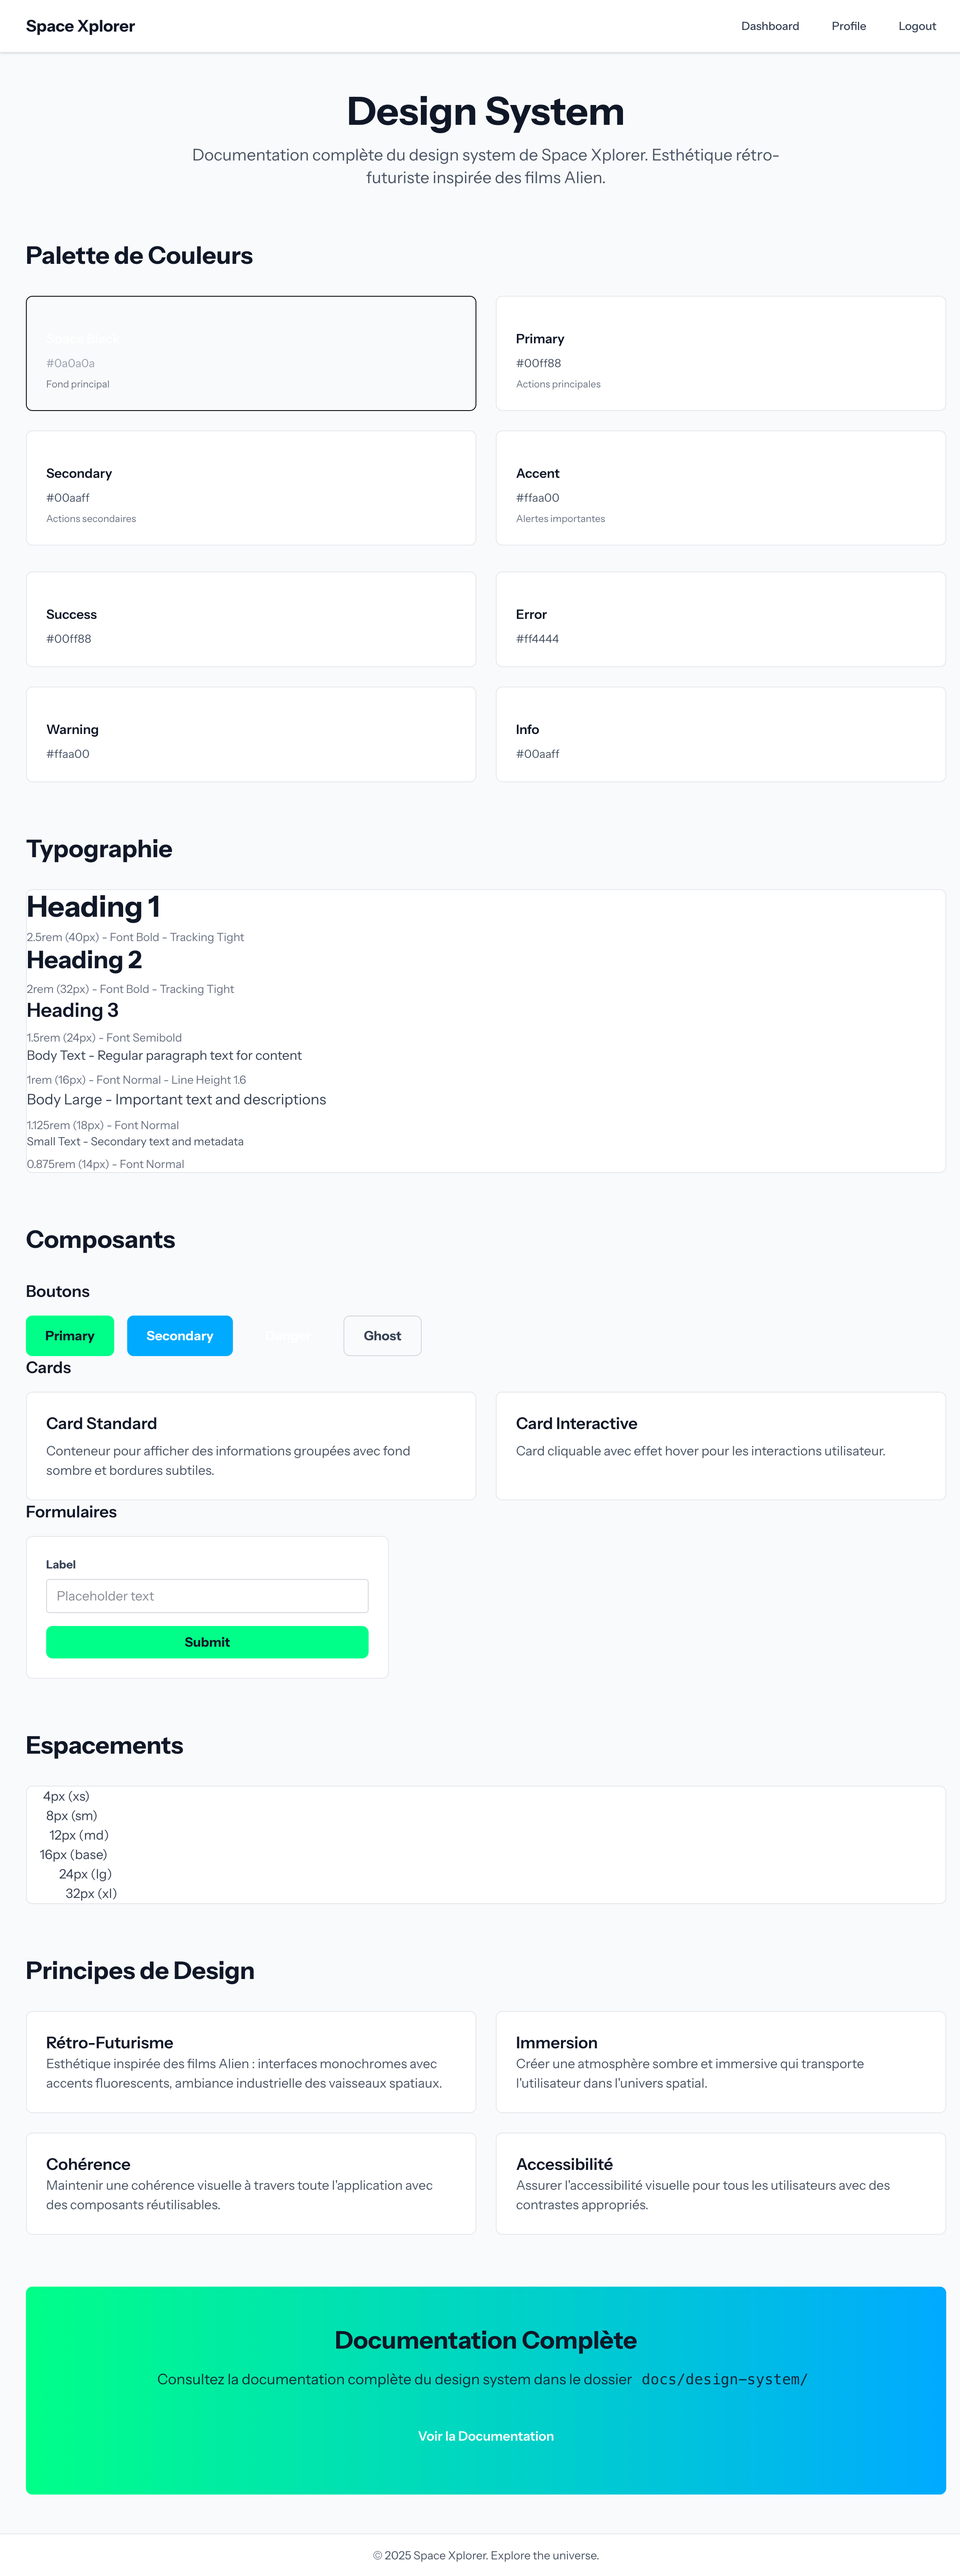
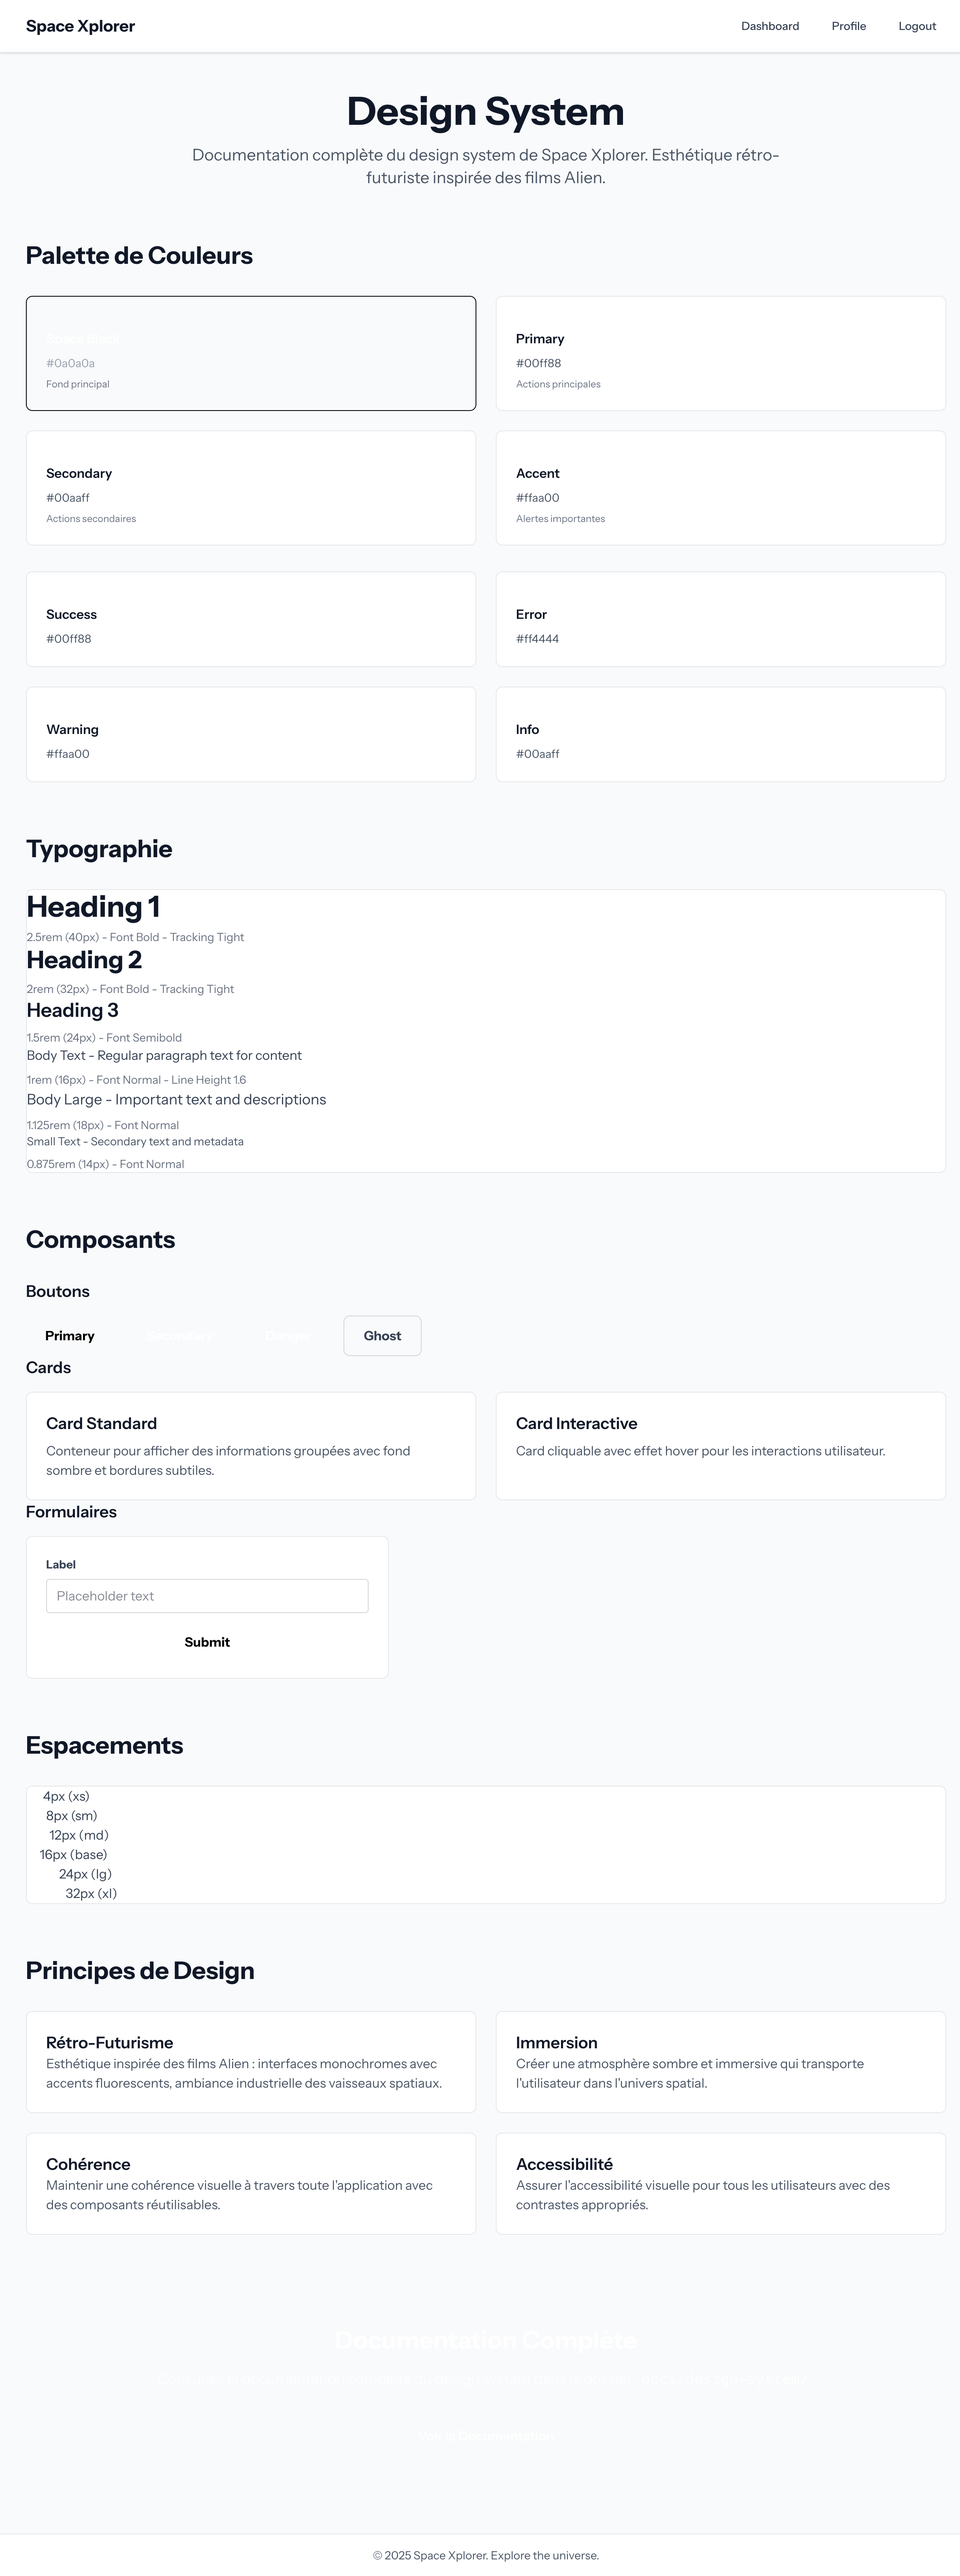
fix: Use Tailwind arbitrary values for design system colors
- Add design system colors to @theme in app.css
- Update design-system page to use bg-[#hex] syntax for colors
- Colors now display correctly with Tailwind arbitrary values
- Update screenshot

Changed region(s): [[0.0, 0.8722, 0.9992, 0.9657], [0.0312, 0.623, 0.4059, 0.6542], [0.0312, 0.4984, 0.2498, 0.5296]]

diff --git a/resources/css/app.css b/resources/css/app.css
@@ -8,4 +8,18 @@
 @theme {
     --font-sans: 'Instrument Sans', ui-sans-serif, system-ui, sans-serif, 'Apple Color Emoji', 'Segoe UI Emoji',
         'Segoe UI Symbol', 'Noto Color Emoji';
+    
+    /* Design System Colors - Space Xplorer */
+    --color-space-black: #0a0a0a;
+    --color-space-primary: #00ff88;
+    --color-space-primary-dark: #00cc6a;
+    --color-space-primary-light: #33ffaa;
+    --color-space-secondary: #00aaff;
+    --color-space-secondary-dark: #0088cc;
+    --color-space-secondary-light: #33bbff;
+    --color-space-accent: #ffaa00;
+    --color-space-accent-dark: #cc8800;
+    --color-surface-dark: #1a1a1a;
+    --color-surface-medium: #2a2a2a;
+    --color-border-dark: #333333;
 }

diff --git a/resources/views/design-system.blade.php b/resources/views/design-system.blade.php
@@ -22,7 +22,7 @@
         <div class="grid md:grid-cols-2 lg:grid-cols-4 gap-6 mb-8">
             <!-- Space Black -->
             <div class="bg-gray-900 dark:bg-gray-950 rounded-lg p-6 border border-gray-800">
-                <div class="h-24 rounded mb-4 bg-gray-950"></div>
+                <div class="h-24 rounded mb-4 bg-[#0a0a0a]"></div>
                 <h3 class="text-white font-semibold mb-2">Space Black</h3>
                 <p class="text-gray-400 text-sm">#0a0a0a</p>
                 <p class="text-gray-500 text-xs mt-2">Fond principal</p>
@@ -30,7 +30,7 @@
 
             <!-- Primary -->
             <div class="bg-white dark:bg-gray-800 rounded-lg p-6 border border-gray-200 dark:border-gray-700">
-                <div class="h-24 rounded mb-4" style="background-color: #00ff88;"></div>
+                <div class="h-24 rounded mb-4 bg-[#00ff88]"></div>
                 <h3 class="text-gray-900 dark:text-white font-semibold mb-2">Primary</h3>
                 <p class="text-gray-600 dark:text-gray-400 text-sm">#00ff88</p>
                 <p class="text-gray-500 dark:text-gray-500 text-xs mt-2">Actions principales</p>
@@ -38,7 +38,7 @@
 
             <!-- Secondary -->
             <div class="bg-white dark:bg-gray-800 rounded-lg p-6 border border-gray-200 dark:border-gray-700">
-                <div class="h-24 rounded mb-4" style="background-color: #00aaff;"></div>
+                <div class="h-24 rounded mb-4 bg-[#00aaff]"></div>
                 <h3 class="text-gray-900 dark:text-white font-semibold mb-2">Secondary</h3>
                 <p class="text-gray-600 dark:text-gray-400 text-sm">#00aaff</p>
                 <p class="text-gray-500 dark:text-gray-500 text-xs mt-2">Actions secondaires</p>
@@ -46,7 +46,7 @@
 
             <!-- Accent -->
             <div class="bg-white dark:bg-gray-800 rounded-lg p-6 border border-gray-200 dark:border-gray-700">
-                <div class="h-24 rounded mb-4" style="background-color: #ffaa00;"></div>
+                <div class="h-24 rounded mb-4 bg-[#ffaa00]"></div>
                 <h3 class="text-gray-900 dark:text-white font-semibold mb-2">Accent</h3>
                 <p class="text-gray-600 dark:text-gray-400 text-sm">#ffaa00</p>
                 <p class="text-gray-500 dark:text-gray-500 text-xs mt-2">Alertes importantes</p>
@@ -56,25 +56,25 @@
         <!-- Semantic Colors -->
         <div class="grid md:grid-cols-2 lg:grid-cols-4 gap-6">
             <div class="bg-white dark:bg-gray-800 rounded-lg p-6 border border-gray-200 dark:border-gray-700">
-                <div class="h-24 rounded mb-4" style="background-color: #00ff88;"></div>
+                <div class="h-24 rounded mb-4 bg-[#00ff88]"></div>
                 <h3 class="text-gray-900 dark:text-white font-semibold mb-2">Success</h3>
                 <p class="text-gray-600 dark:text-gray-400 text-sm">#00ff88</p>
             </div>
 
             <div class="bg-white dark:bg-gray-800 rounded-lg p-6 border border-gray-200 dark:border-gray-700">
-                <div class="h-24 rounded mb-4 bg-red-500"></div>
+                <div class="h-24 rounded mb-4 bg-[#ff4444]"></div>
                 <h3 class="text-gray-900 dark:text-white font-semibold mb-2">Error</h3>
                 <p class="text-gray-600 dark:text-gray-400 text-sm">#ff4444</p>
             </div>
 
             <div class="bg-white dark:bg-gray-800 rounded-lg p-6 border border-gray-200 dark:border-gray-700">
-                <div class="h-24 rounded mb-4" style="background-color: #ffaa00;"></div>
+                <div class="h-24 rounded mb-4 bg-[#ffaa00]"></div>
                 <h3 class="text-gray-900 dark:text-white font-semibold mb-2">Warning</h3>
                 <p class="text-gray-600 dark:text-gray-400 text-sm">#ffaa00</p>
             </div>
 
             <div class="bg-white dark:bg-gray-800 rounded-lg p-6 border border-gray-200 dark:border-gray-700">
-                <div class="h-24 rounded mb-4" style="background-color: #00aaff;"></div>
+                <div class="h-24 rounded mb-4 bg-[#00aaff]"></div>
                 <h3 class="text-gray-900 dark:text-white font-semibold mb-2">Info</h3>
                 <p class="text-gray-600 dark:text-gray-400 text-sm">#00aaff</p>
             </div>
@@ -129,13 +129,13 @@
             <div>
                 <h3 class="text-xl font-semibold text-gray-900 dark:text-white mb-4">Boutons</h3>
                 <div class="flex flex-wrap gap-4">
-                    <button class="text-gray-900 dark:text-gray-900 font-bold py-3 px-6 rounded-lg transition-colors duration-150" style="background-color: #00ff88;">
+                    <button class="bg-[#00ff88] hover:bg-[#00cc6a] text-[#0a0a0a] font-bold py-3 px-6 rounded-lg transition-colors duration-150">
                         Primary
                     </button>
-                    <button class="text-white font-bold py-3 px-6 rounded-lg transition-colors duration-150" style="background-color: #00aaff;">
+                    <button class="bg-[#00aaff] hover:bg-[#0088cc] text-white font-bold py-3 px-6 rounded-lg transition-colors duration-150">
                         Secondary
                     </button>
-                    <button class="bg-red-500 hover:bg-red-600 text-white font-bold py-3 px-6 rounded-lg transition-colors duration-150">
+                    <button class="bg-[#ff4444] hover:bg-[#cc3333] text-white font-bold py-3 px-6 rounded-lg transition-colors duration-150">
                         Danger
                     </button>
                     <button class="bg-transparent hover:bg-gray-200 dark:hover:bg-gray-700 text-gray-700 dark:text-gray-300 hover:text-gray-900 dark:hover:text-white font-bold py-3 px-6 rounded-lg transition-colors duration-150 border border-gray-300 dark:border-gray-600">
@@ -175,11 +175,11 @@
                         <input
                             type="text"
                             id="example-input"
-                            class="w-full py-2 px-3 bg-white dark:bg-gray-700 border border-gray-300 dark:border-gray-600 rounded text-gray-900 dark:text-white placeholder-gray-500 focus:outline-none focus:ring-2 focus:ring-blue-500 focus:ring-offset-2 focus:border-blue-500 transition-all duration-150"
+                            class="w-full py-2 px-3 bg-white dark:bg-gray-700 border border-gray-300 dark:border-gray-600 rounded text-gray-900 dark:text-white placeholder-gray-500 focus:outline-none focus:ring-2 focus:ring-[#00ff88] focus:ring-offset-2 focus:border-[#00ff88] transition-all duration-150"
                             placeholder="Placeholder text"
                         >
                     </div>
-                    <button class="text-gray-900 dark:text-gray-900 font-bold py-2 px-4 rounded-lg transition-colors duration-150 w-full" style="background-color: #00ff88;">
+                    <button class="bg-[#00ff88] hover:bg-[#00cc6a] text-[#0a0a0a] font-bold py-2 px-4 rounded-lg transition-colors duration-150 w-full">
                         Submit
                     </button>
                 </div>
@@ -194,27 +194,27 @@
         <div class="bg-white dark:bg-gray-800 rounded-lg p-8 border border-gray-200 dark:border-gray-700">
             <div class="space-y-4">
                 <div class="flex items-center gap-4">
-                    <div class="w-1 h-4 bg-blue-500"></div>
+                    <div class="w-1 h-4 bg-[#00ff88]"></div>
                     <span class="text-gray-700 dark:text-gray-300">4px (xs)</span>
                 </div>
                 <div class="flex items-center gap-4">
-                    <div class="w-2 h-4 bg-blue-500"></div>
+                    <div class="w-2 h-4 bg-[#00ff88]"></div>
                     <span class="text-gray-700 dark:text-gray-300">8px (sm)</span>
                 </div>
                 <div class="flex items-center gap-4">
-                    <div class="w-3 h-4 bg-blue-500"></div>
+                    <div class="w-3 h-4 bg-[#00ff88]"></div>
                     <span class="text-gray-700 dark:text-gray-300">12px (md)</span>
                 </div>
                 <div class="flex items-center gap-4">
-                    <div class="w-4 h-4 bg-blue-500"></div>
+                    <div class="w-4 h-4 bg-[#00ff88]"></div>
                     <span class="text-gray-700 dark:text-gray-300">16px (base)</span>
                 </div>
                 <div class="flex items-center gap-4">
-                    <div class="w-6 h-4 bg-blue-500"></div>
+                    <div class="w-6 h-4 bg-[#00ff88]"></div>
                     <span class="text-gray-700 dark:text-gray-300">24px (lg)</span>
                 </div>
                 <div class="flex items-center gap-4">
-                    <div class="w-8 h-4 bg-blue-500"></div>
+                    <div class="w-8 h-4 bg-[#00ff88]"></div>
                     <span class="text-gray-700 dark:text-gray-300">32px (xl)</span>
                 </div>
             </div>
@@ -259,15 +259,15 @@
 
     <!-- Documentation Link -->
     <section class="text-center">
-        <div class="rounded-lg p-12 text-white" style="background: linear-gradient(to right, #00ff88, #00aaff);">
-            <h2 class="text-3xl font-bold mb-4 text-gray-900">Documentation Complète</h2>
-            <p class="text-lg mb-8 opacity-90 text-gray-900">
-                Consultez la documentation complète du design system dans le dossier <code class="bg-gray-900 text-[#00ff88] px-2 py-1 rounded">docs/design-system/</code>
+        <div class="rounded-lg p-12 text-white bg-gradient-to-r from-[#00ff88] to-[#00aaff]">
+            <h2 class="text-3xl font-bold mb-4 text-[#0a0a0a]">Documentation Complète</h2>
+            <p class="text-lg mb-8 opacity-90 text-[#0a0a0a]">
+                Consultez la documentation complète du design system dans le dossier <code class="bg-[#0a0a0a] text-[#00ff88] px-2 py-1 rounded">docs/design-system/</code>
             </p>
             <div class="flex justify-center gap-4">
                 <a href="https://github.com/PiLep/space-xplorer/tree/feature/design-system/docs/design-system" 
                    target="_blank"
-                   class="bg-gray-900 text-[#00ff88] hover:bg-gray-800 px-6 py-3 rounded-lg font-semibold transition-colors duration-150">
+                   class="bg-[#0a0a0a] text-[#00ff88] hover:bg-[#1a1a1a] px-6 py-3 rounded-lg font-semibold transition-colors duration-150">
                     Voir la Documentation
                 </a>
             </div>
@@ -275,4 +275,3 @@
     </section>
 </div>
 @endsection
-
